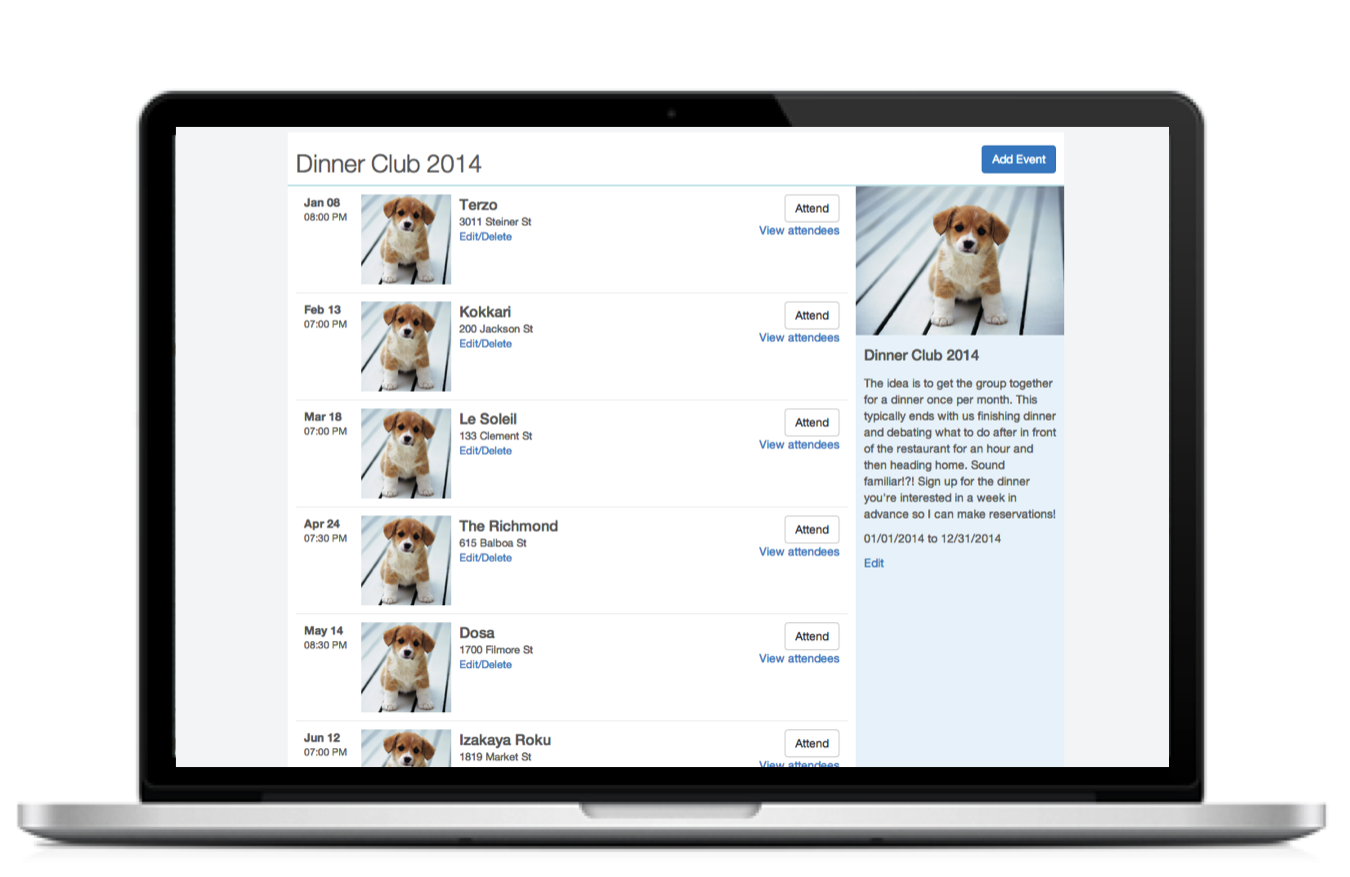
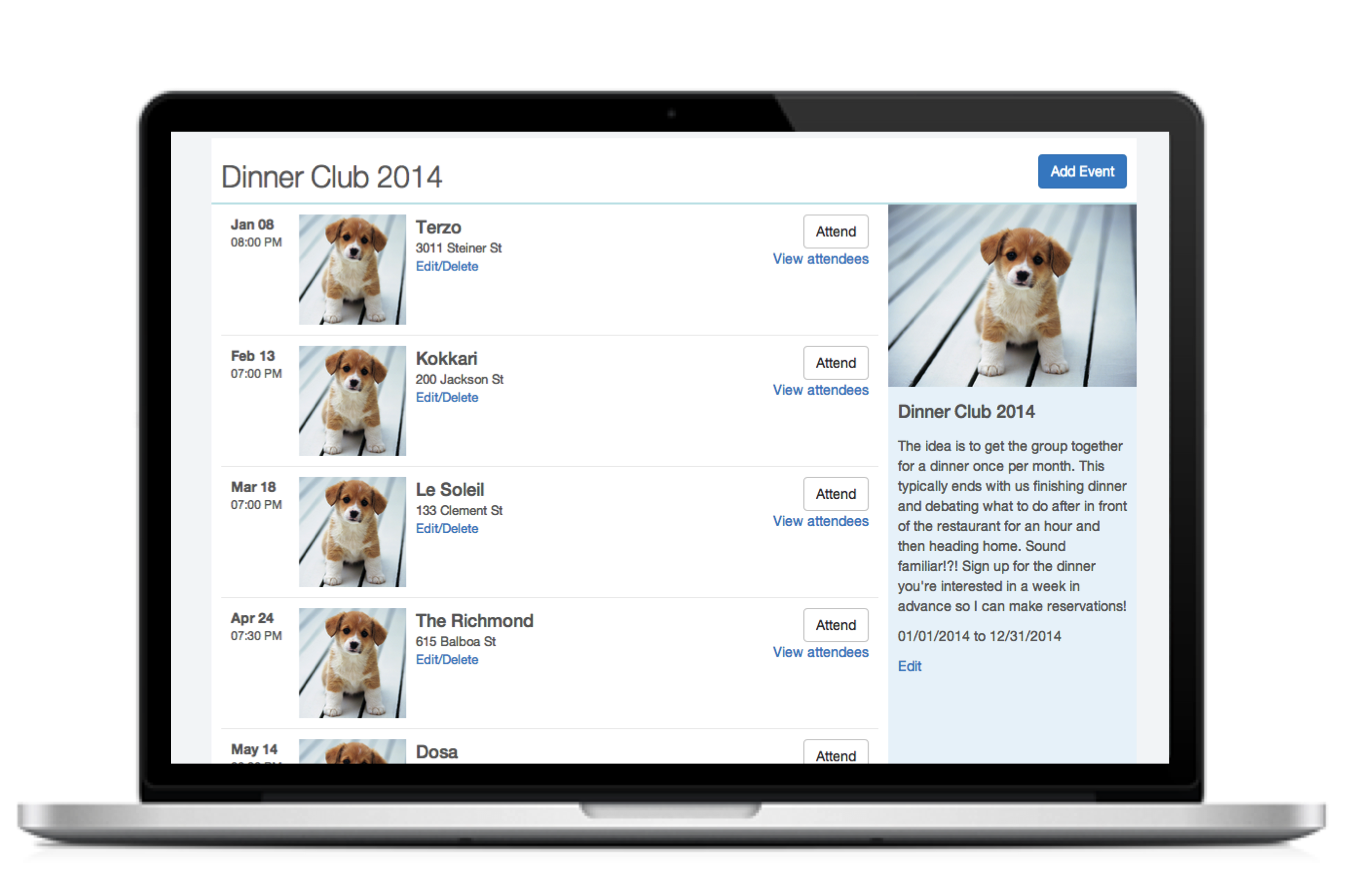
homepage with the mac mockup

Changed region(s): [[0.1244, 0.1231, 0.8711, 0.8928]]

diff --git a/client/stylesheets/style.css b/client/stylesheets/style.css
@@ -135,7 +135,7 @@ body {
     border-radius: 0px 0px 3px 3px;
     /*box-shadow: 0 0 2px rgba(0,0,0,0.3),0 3px 5px rgba(0,0,0,0.2)*/
     z-index: 998;
-    min-height: 680px;
+    min-height: 580px;
 }
 .wrapper h2 {
     color: #666;
@@ -559,8 +559,7 @@ body {
     top: 0px;
     left: 0px;
     z-index: 0;
-    min-height: 815px;
-    min-height: 970px;
+    height: 750px;
 }
 .navbar {
     z-index: 1;
@@ -574,7 +573,7 @@ body {
     float: right;
     width: 600px;
     height: 400px;
-    margin-top: 150px;
+    margin-top: 60px;
     margin-right: -30px;
 }
 .sample {
@@ -586,7 +585,7 @@ body {
     position: relative;
     display: block;
     z-index: 4;
-    margin-top: 180px;
+    margin-top: 120px;
     width: 380px;
     font-size: 16px;
 }

diff --git a/client/views/includes/carousel_page.html b/client/views/includes/carousel_page.html
@@ -10,6 +10,6 @@
 		<button class="btn btn-lg btn-default">See Examples</button>
 	</div>
 	<div class="sample-img clearfix">
-		<img class="sample" src="/mockup.png"/>
+		<img class="sample" src="/sample_mac2.png"/>
 	</div>
 </template>
